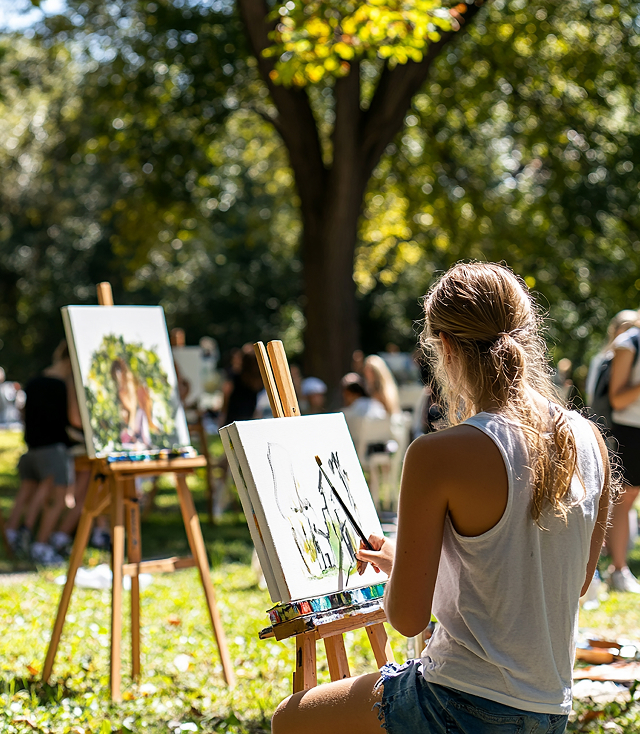
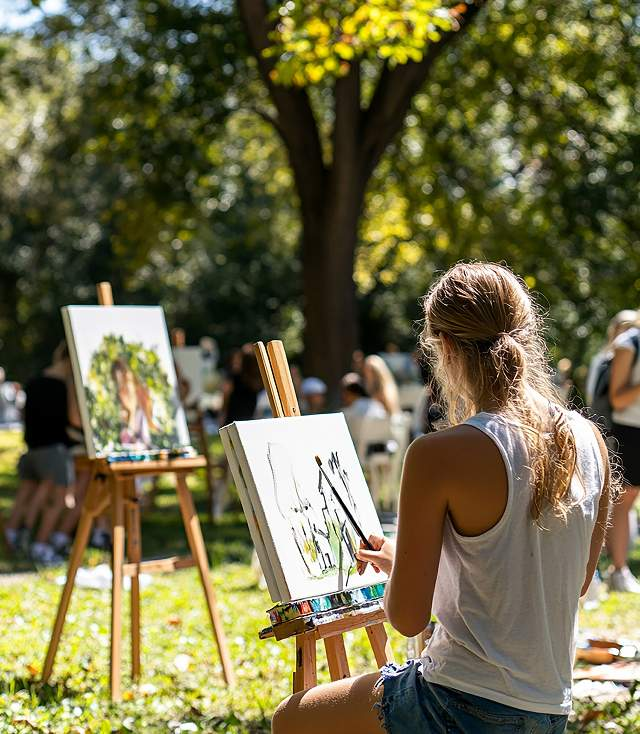
fix2: register section

diff --git a/src/partials/register.html b/src/partials/register.html
@@ -46,17 +46,37 @@
       </form>
     </div>
 
-    <img
-      class="register-img"
-      src="./img/register-img/register-mob.jpg"
-      srcset="
-        ./img/register-img/register-mob.jpg    1x,
-        ./img/register-img/register-mob@2x.jpg 2x
-      "
-      alt="Girl painting outdoors at an easel"
-      width="335"
-      height="286"
-      loading="lazy"
-    />
+    <picture class="register-picture">
+      <source
+        media="(min-width: 1440px)"
+        width="640"
+        height="734"
+        srcset="
+          ./img/register-img/register-desk.jpg    1x,
+          ./img/register-img/register-desk@2x.jpg 2x
+        "
+      />
+      <source
+        media="(min-width: 768px)"
+        width="704"
+        height="362"
+        srcset="
+          ./img/register-img/register-tab.jpg    1x,
+          ./img/register-img/register-tab@2x.jpg 2x
+        "
+      />
+      <img
+        class="register-img"
+        src="./img/register-img/register-mob.jpg"
+        srcset="
+          ./img/register-img/register-mob.jpg    1x,
+          ./img/register-img/register-mob@2x.jpg 2x
+        "
+        alt="Girl painting outdoors at an easel"
+        width="335"
+        height="286"
+        loading="lazy"
+      />
+    </picture>
   </div>
 </section>

diff --git a/src/css/register.css b/src/css/register.css
@@ -71,16 +71,9 @@
 }
 
 .register-img {
+  display: block;
   width: 100%;
-  aspect-ratio: 335 / 286;
-  object-fit: cover;
-  border-radius: 16px;
-}
-
-@media screen and (min-width: 768px) {
-  .register-img {
-    aspect-ratio: 704 / 362;
-  }
+  height: auto;
 }
 
 @media screen and (min-width: 1440px) {
@@ -94,13 +87,9 @@
   }
 
   .register-content,
-  .register-img {
+  .register-picture {
     flex: 1;
     min-width: 0;
-  }
-
-  .register-img {
-    aspect-ratio: 640 / 734;
   }
 
   .register-btn {
